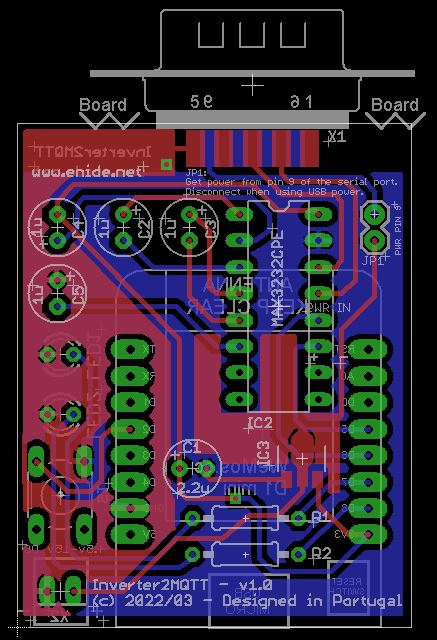
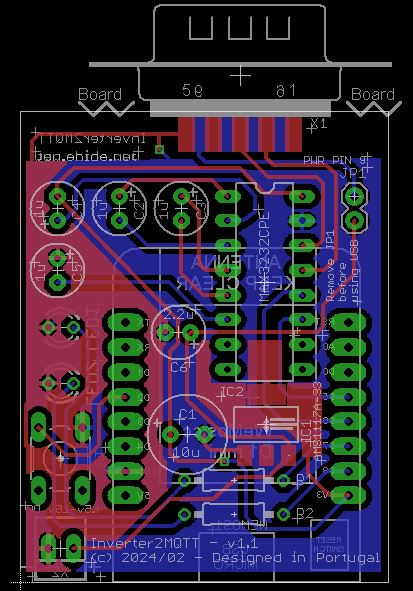
New wemos board pictures and gerber files

diff --git a/HARDWARE.md b/HARDWARE.md
@@ -32,16 +32,23 @@ Recently I decided to develop an adapter PCB, with all the components mentioned 
 The Wemos D1 mini has a lot more pins and thus the serial communication to the inverter is handled by SoftwareSerial on pins D5 and D6, thus freeing the USB interface (native serial port) to see log messages and debug information.
 
 This new adapter board also includes 2 LEDs and one push button to use in the future.
-Here's how it looks like:
+
+Here's how the prototype looks like:
 <img src='images/wemos-01.jpg' width='640px'>
 
-The adapter board without the Wemos D1 mini:
+And how it looks without the Wemos D1 mini inserted:
 <img src='images/wemos-02.jpg' width='640px'>
 <img src='images/wemos-03.jpg' width='640px'>
 
-Unfortunately, when designing this PCB I used a voltage regulator that is not easy to source. I'm in the process of changing it and will update this page with the Gerber files.
-<img src='images/wemos-a-schematic.jpg' width='800px'>
-<img src='images/wemos-a-pcb.jpg' width='437px'>
+This adapter board has since been updated with a new voltage regulator that is much easier to source and below you will find the files needed to have it assembled.
+
+The new schematic:
+<img src='images/wemos-a-schematic.jpg' width='846px'>
+
+The PCB:
+<img src='images/wemos-a-pcb.jpg' width='413px'>
+
+[Gerber files](docs/gerbers-02.zip) if you want to build it yourself.
 
 ## Your own solution
 If you already have a ESP8266 board that can connect to a RS232 serial port, you should be able to use it as well.
